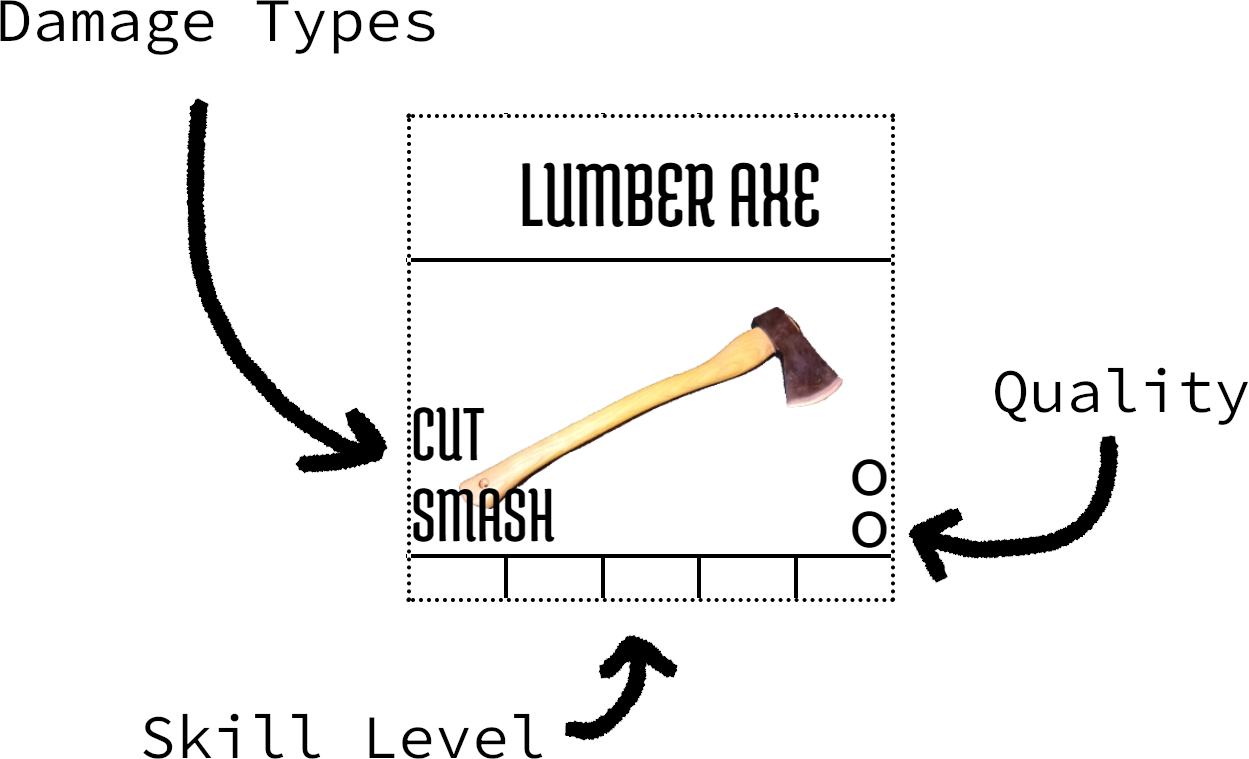
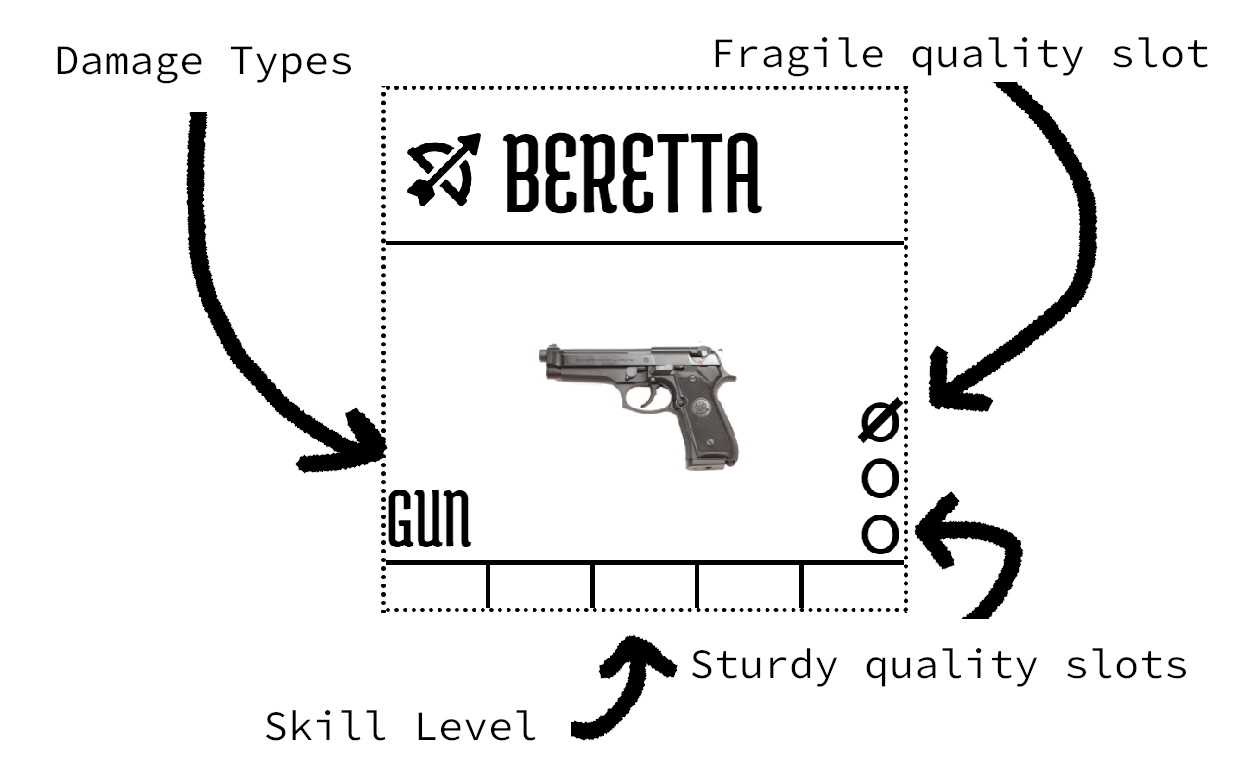
fixd things

diff --git a/rules.html b/rules.html
@@ -294,44 +294,44 @@
                 <h4>Damage</h4>
                 <row class="internal">
                     <box class="no-border">
-                        <h4>Weapon type</h4>
-                        <p>Weapons are divided into the four classes shown below. These classes encompass all weapons from clubs, to flaming swords, and machine guns.</p>
-                        <p>Weapon type is shown on the weapon card.</p>
+                        <h4>Weapon quality</h4>
+                        <p>A weapon can have a quality ranging from 1 to 5. The quality affects both the weapons damage, and durability.</p>
+                        <p>The quality translates into this general class of weapon, and general value.</p>
                         <info-list class="dice-enumeration weapons" style="counter-set: list 2;">
                             <info-row>
                                 <inner>
-                                    <h4>Improvised</h4>
+                                    <h4>1: Improvised</h4>
                                     <cost>N/A</cost>
                                 </inner>
                             </info-row>
                             <info-row>
                                 <inner>
-                                    <h4>Crude</h4>
+                                    <h4>2: Shoddy DIY</h4>
                                     <cost>~10C</cost>
                                 </inner>
                             </info-row>
                             <info-row>
                                 <inner>
-                                    <h4>Martial</h4>
+                                    <h4>3: Self-Defense</h4>
                                     <cost>~500C</cost>
                                 </inner>
                             </info-row>
                             <info-row>
                                 <inner>
-                                    <h4>Enchanted</h4>
-                                    <cost>~10000C</cost>
+                                    <h4>4: Army Grade</h4>
+                                    <cost>~2500C</cost>
                                 </inner>
                             </info-row>
                             <info-row>
                                 <inner>
-                                    <h4 style="width: 80px;">Hi-Tech</h4>
+                                    <h4 style="width: 80px;">5: Hi-Tech</h4>
                                     <cost>~10000C</cost>
                                 </inner>
                             </info-row>
                         </info-list>
                     </box>
                     <box class="no-border">
-                        <h4>Skill</h4>
+                        <h4>Skill level</h4>
                         <p>A characters skill with the individual weapon affects their efficiency greatly, and can turn any weapon lethal.</p>
                         <p>Skill is tracked on the weapon card.</p>
                         <info-list class="dice-enumeration" style="counter-set: list 2;">
@@ -637,8 +637,10 @@
                     <box class="no-border">
                         <h3>Stats</h3>
                         <h4>Quality</h4>
-                        <p>The measure of how lethal the weapon is, and also its current state of wear and tear. Whenever a weapon is used to penetrate armor, or parry an attack, fill in one of these slots, to track how damaged the weapon is.</p>
-                        <p>The damage of a weapon is directly linked to how many empty quality slots it has.</p>
+                        <p>The measure of how lethal the weapon is, and also its current state of wear and tear. There are sturdy quality slots, and also fragile quality slots.</p>
+                        <p>The damage of a weapon is directly linked to how many <i>sturdy</i> and <i>fragile</i> quality slots it has.</p>
+                        <p>The durability of the weapon s directly linked to how many <i>sturdy</i> quality slots it has</p>
+                        <p>Whenever a weapon is used to penetrate armor, or parry an attack, fill in one of these <i>empty</i> quality slots, to track how damaged the weapon is.</p>
                         <info-list class="dice-enumeration" style="counter-set: list 2;">
                             <info-row>
                                 <inner>
@@ -671,11 +673,11 @@
                         <h4>Skill Level</h4>
                         <p>Use this bar to track the current users skill level with the weapon.</p>
                         <h4>Damage types</h4>
-                        <p>Use this bar to track the current users skill level with the weapon.</p>
+                        <p>The different damage types this weapon may use.</p>
                         <h4>Breakage</h4>
-                        <p>A weapon which has all quality slots filled in breaks completely, beyond repair</p>
+                        <p>A weapon which has all sturdy quality slots filled in breaks completely, beyond repair</p>
                         <h4>Repair</h4>
-                        <p>Repairing a weapon may restore filled in quality slots. Repairing a quality slot will take some time, and resources, usually worth around ~75% of what the quality slot would cost if new.</p>
+                        <p>Repairing a weapon may restore sturdy quality slots. Repairing a quality slot will take some time, and resources, usually worth around ~75% of what the quality slot would cost if new.</p>
                     </box>
                 </row>
             </box>

diff --git a/css/item.css b/css/item.css
@@ -109,7 +109,7 @@ item inner usage span{
     display: flex;
     flex-direction: column;
     justify-content: center;
-    content: url(img/blades.svg);
+    content: url(../img/blades.svg);
     flex: 1;
     margin-top: 4px;
 }
@@ -117,7 +117,7 @@ item inner usage span{
     display: flex;
     flex-direction: column;
     justify-content: center;
-    content: url(img/ranged.svg);
+    content: url(../img/ranged.svg);
     flex: 1;
     margin-top: 4px;
 }
@@ -125,7 +125,7 @@ item inner usage span{
     display: flex;
     flex-direction: column;
     justify-content: center;
-    content: url(img/meleespell.svg);
+    content: url(../img/meleespell.svg);
     flex: 1;
     margin-top: 4px;
 }
@@ -133,7 +133,7 @@ item inner usage span{
     display: flex;
     flex-direction: column;
     justify-content: center;
-    content: url(img/spell.svg);
+    content: url(../img/spell.svg);
     flex: 1;
     margin-top: 4px;
 }

diff --git a/items.html b/items.html
@@ -25,6 +25,18 @@
             justify-content: center;
             margin: 0 auto;
         }
+        span{
+            position: relative;
+        }
+        .quality-prefilled::after{
+            position: absolute;
+            content: "";
+            top: 0px;
+            right: 4.5px;
+            transform: rotateZ(45deg);
+            border-left: 2px solid black;
+            height: 13px;
+        }
         
     </style>
     <link rel="stylesheet" href="css/item.css">
@@ -401,7 +413,7 @@
                     <span>gun</span>
                 </damagetypes>
                 <usage>
-                    <span>o</span>
+                    <span class="quality-prefilled">o</span>
                     <span>o</span>
                     <span>o</span>
                 </usage>
